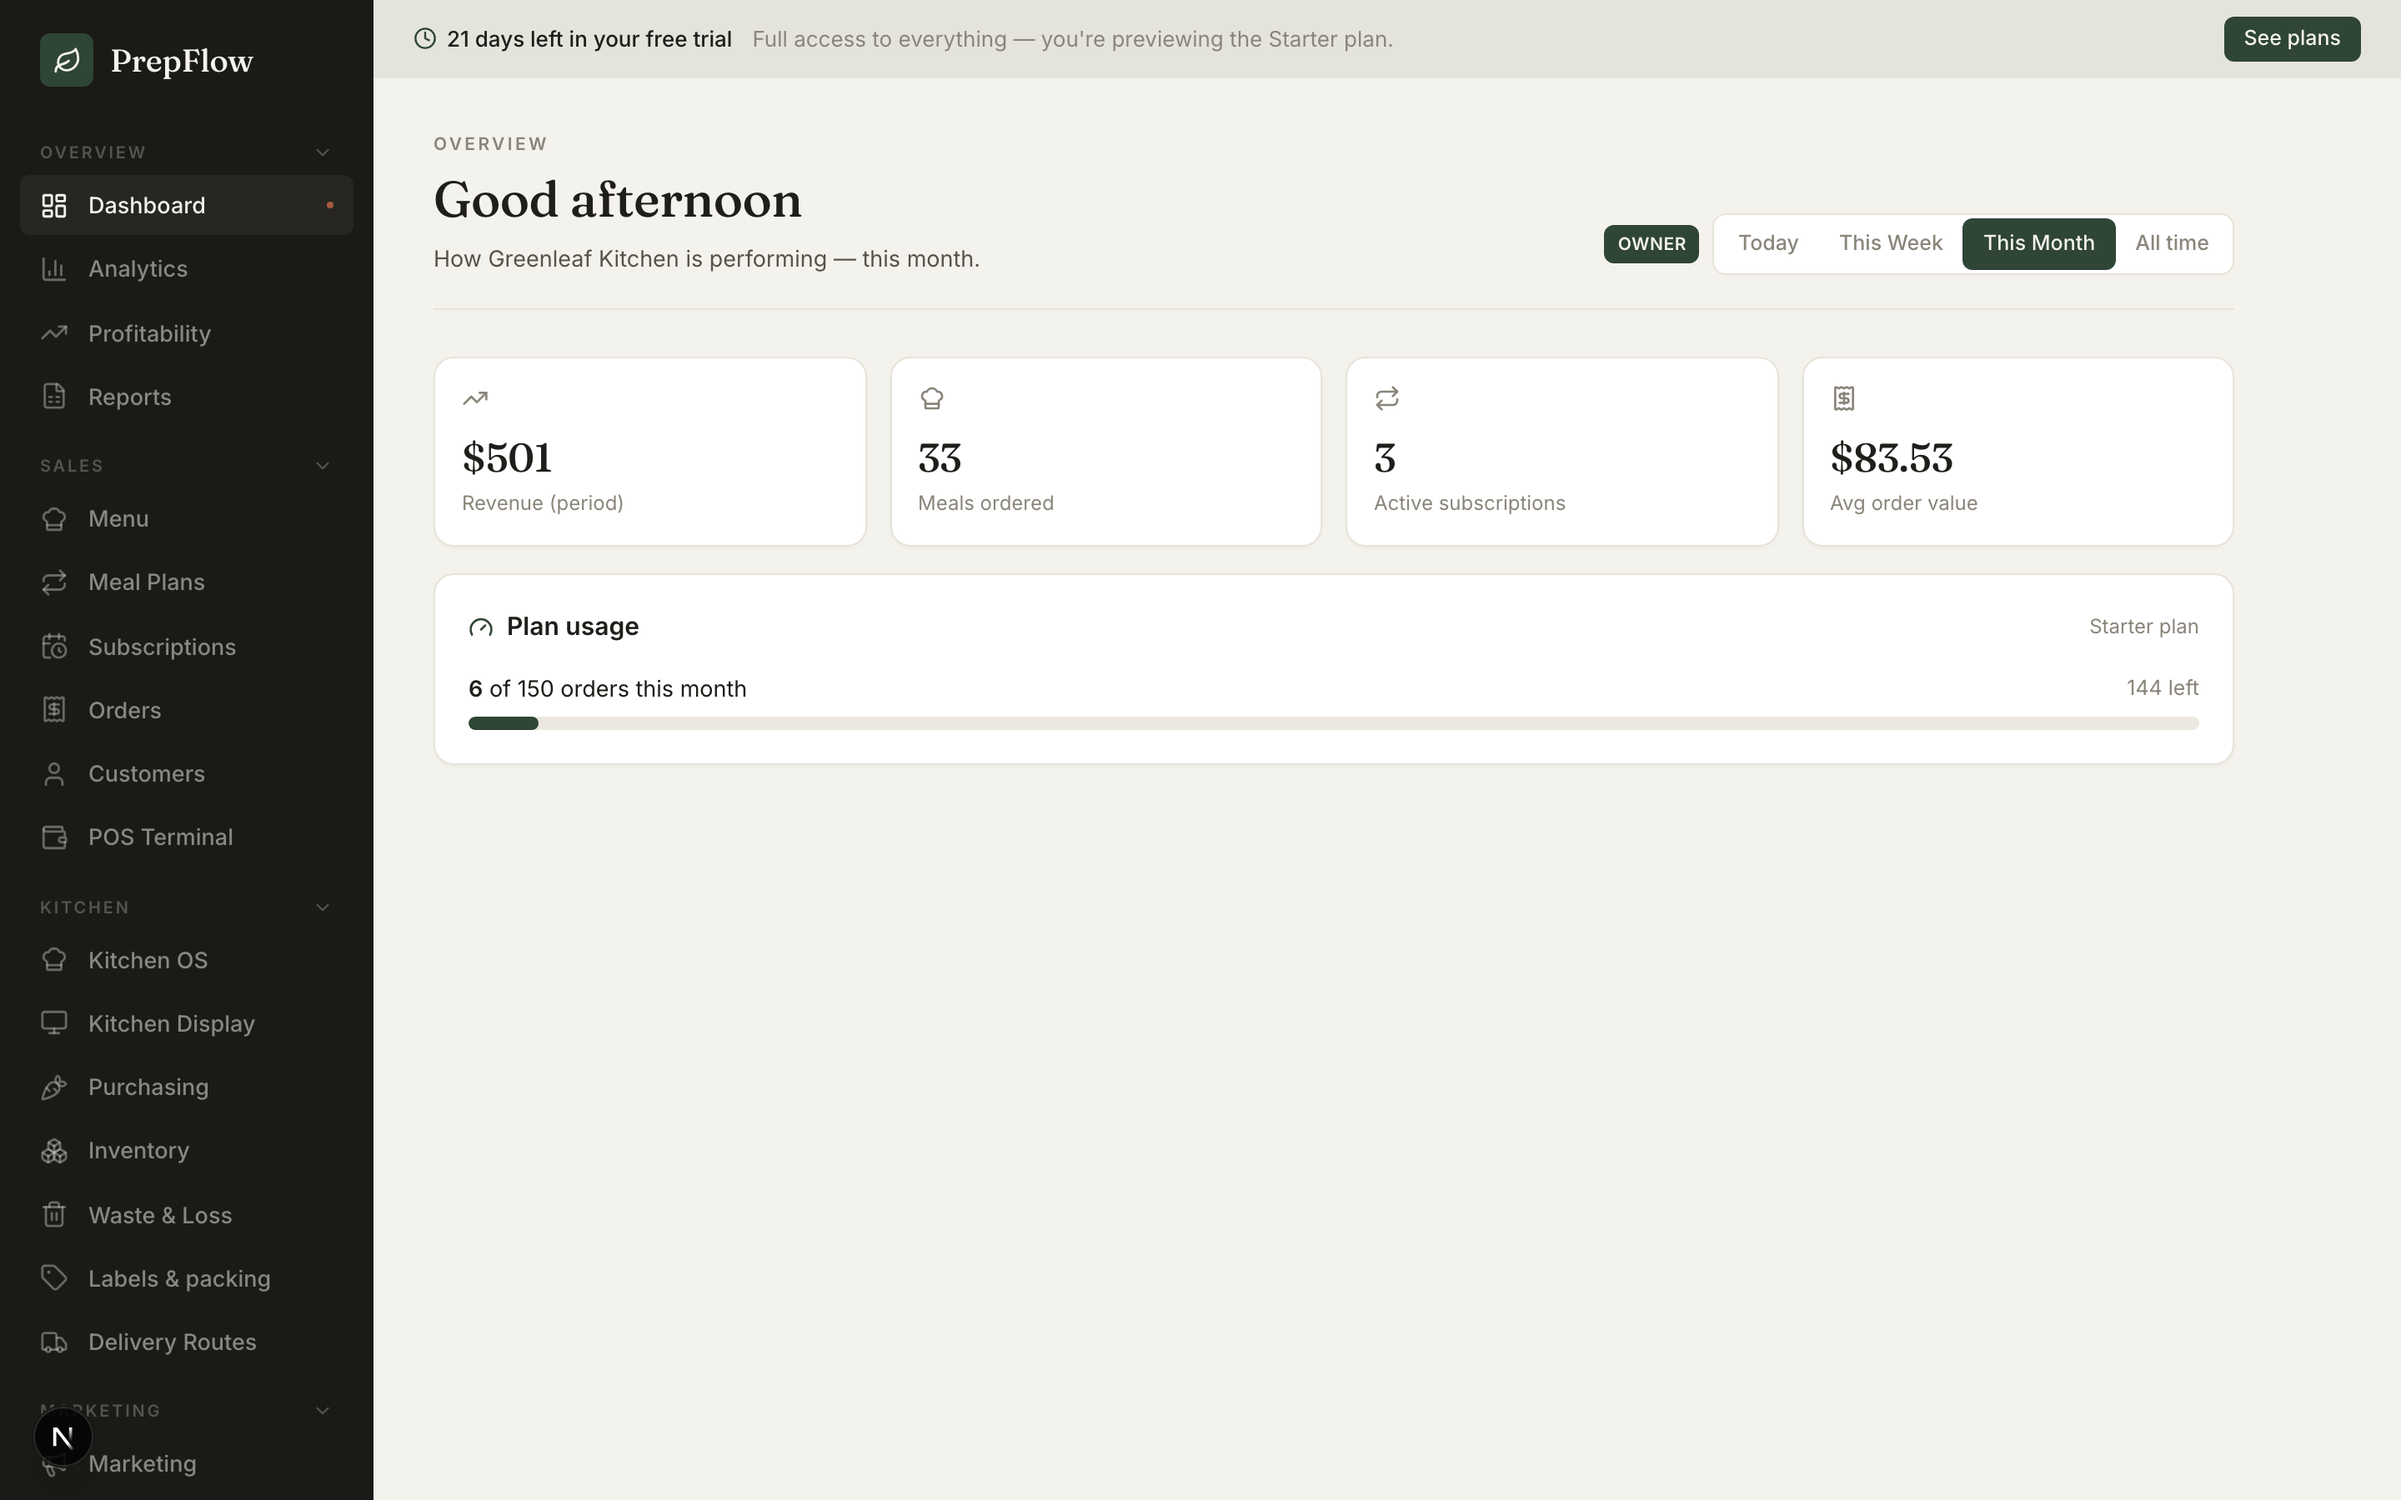
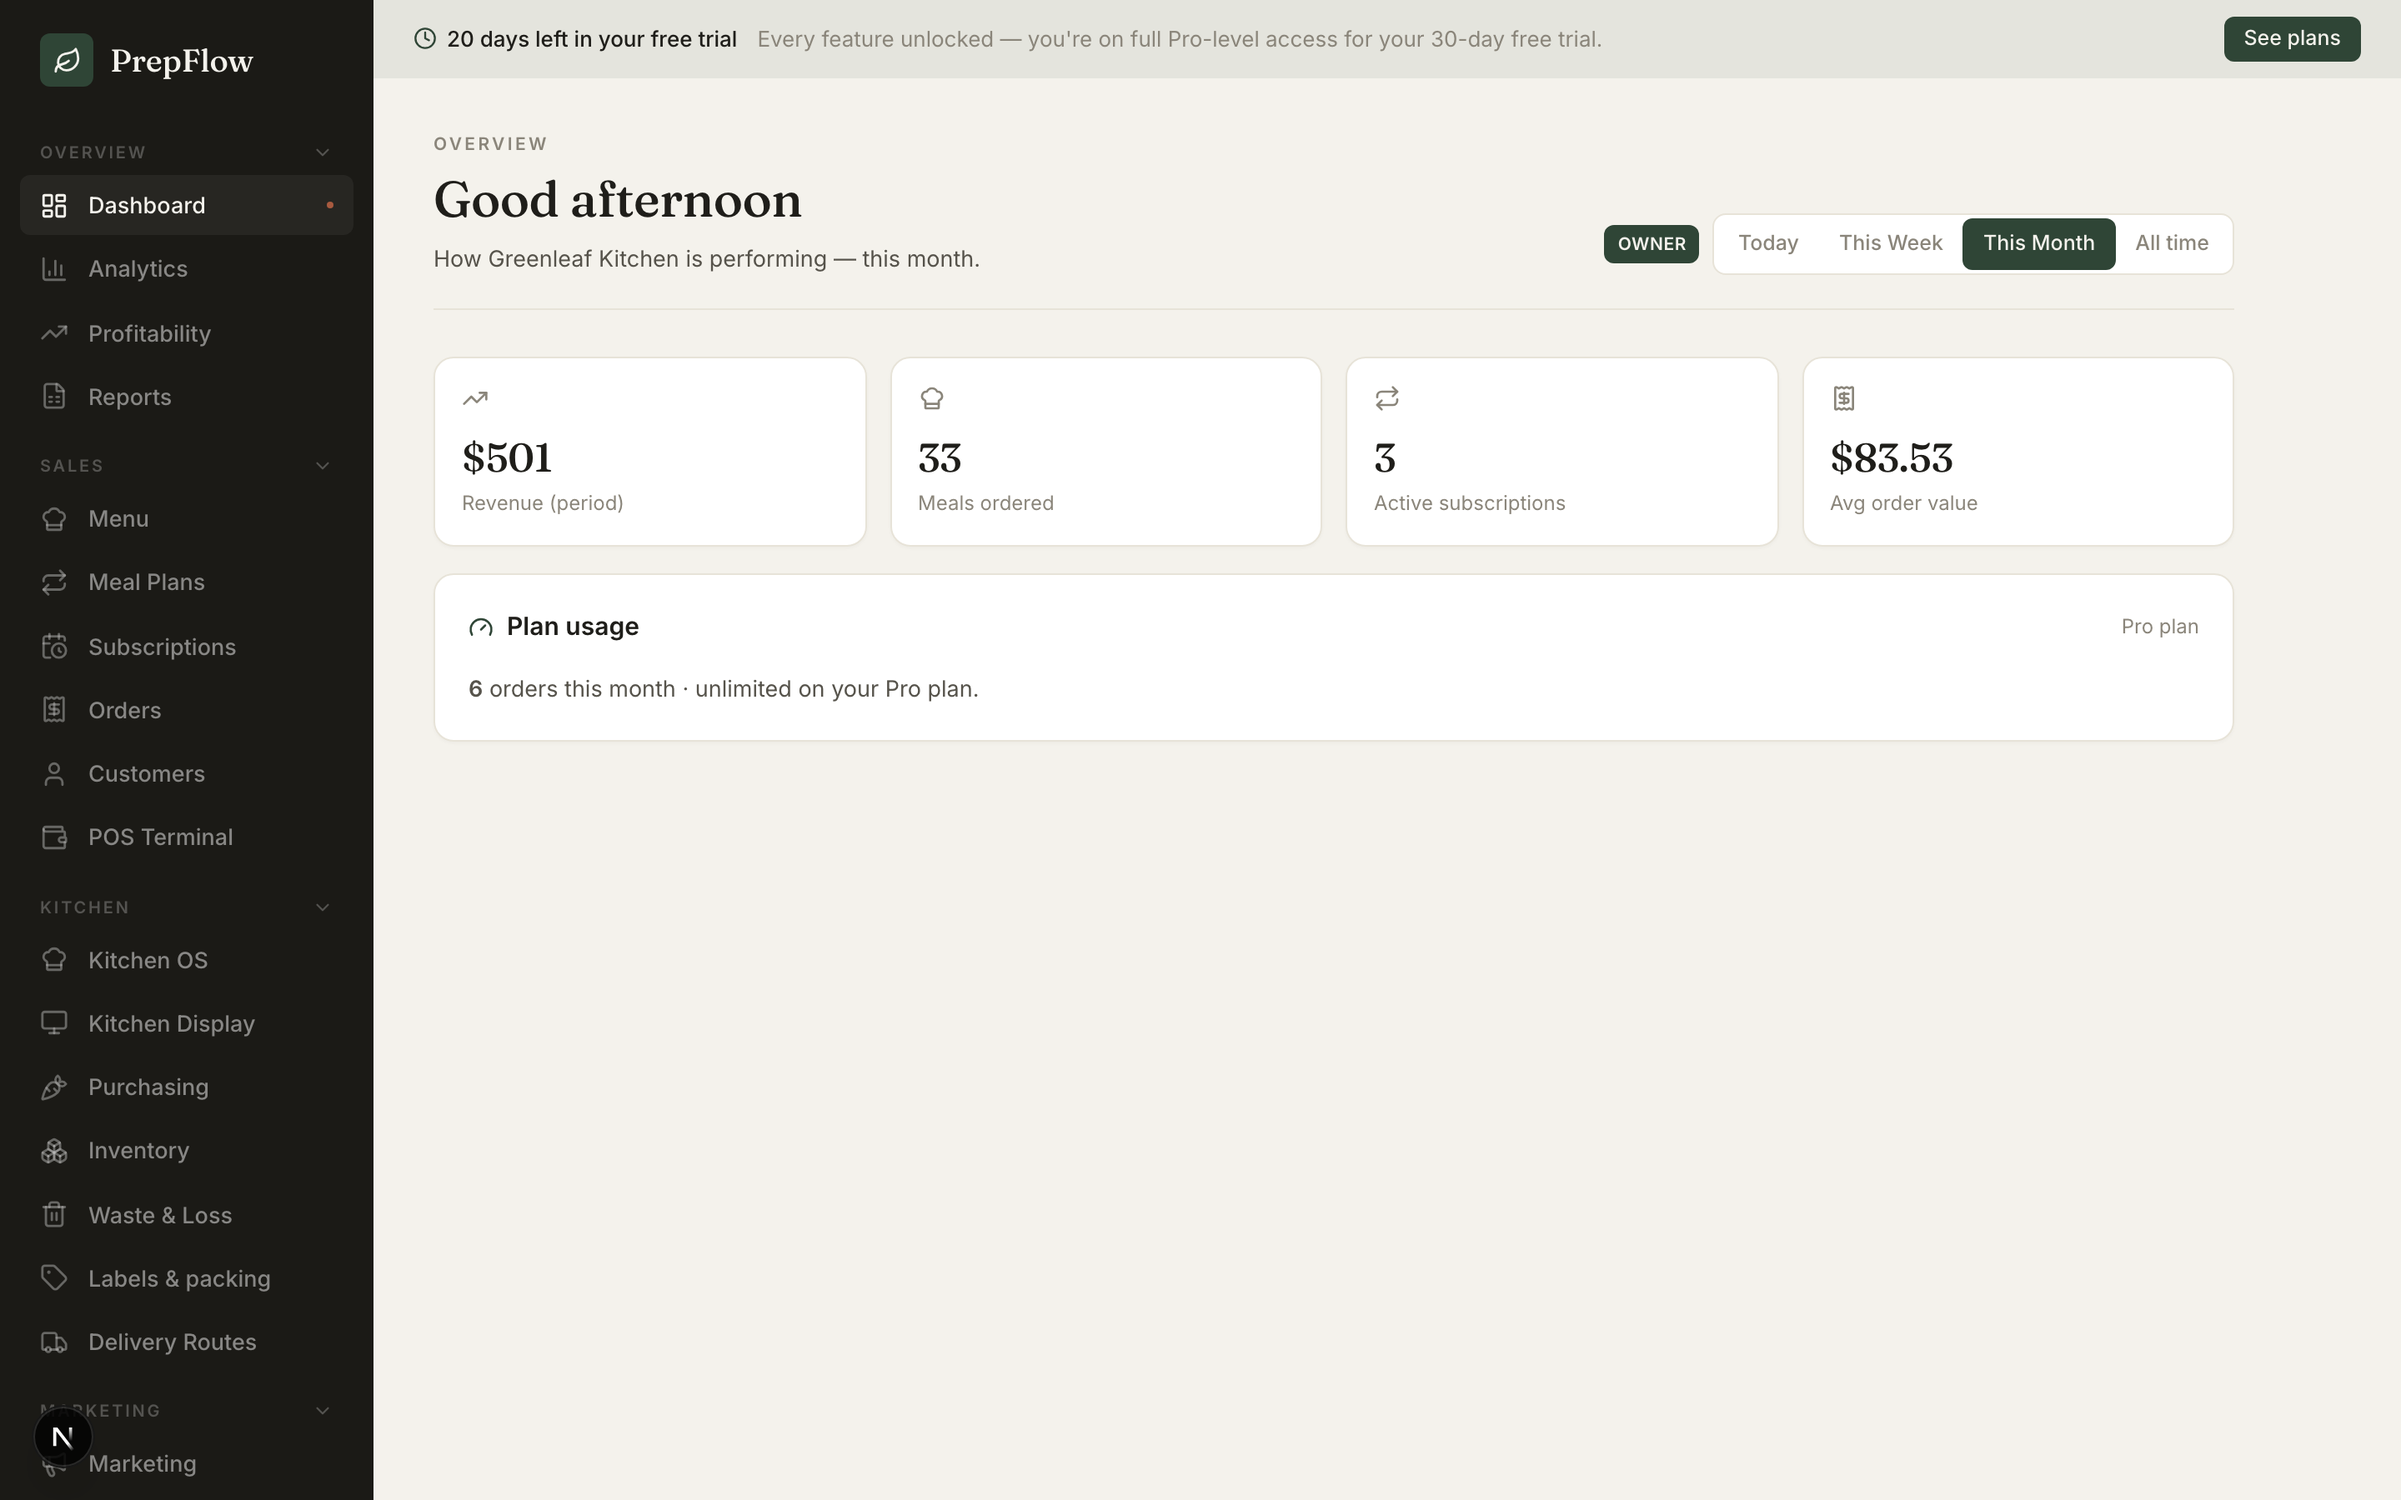
feat(trial): free trial grants full Pro-level access for 30 days
effectiveTier() returns "pro" while a kitchen's trial is active, so trial
kitchens get unlimited orders and all features regardless of the plan they
picked — reverting to their real tier when the trial ends. Wired into the order
usage/limit call sites (dashboard, POS, storefront) and the trial banner copy
("Every feature unlocked — full Pro-level access"). Platform fee still follows
the kitchen's actual tier.

Also (demo playbook review): the walkthrough now shows a "Skip ahead and explore
the app" link right under Back/Next so the live demo is reachable from any step,
and the overview demo screenshot is refreshed to the new trial copy.

Changed region(s): [[0.1875, 0.4356, 0.9375, 0.4978], [0.4375, 0.0, 0.6562, 0.0311], [0.1875, 0.0, 0.4062, 0.0311]]

diff --git a/src/app/dashboard/layout.tsx b/src/app/dashboard/layout.tsx
@@ -3,7 +3,7 @@ import { Eye, AlertTriangle, ArrowUpCircle, Clock, Sparkles } from "lucide-react
 import { requireBusiness } from "@/lib/auth";
 import { exitDemo } from "../demo/[rep]/enter/actions";
 import { orderLimitStatus } from "@/lib/usage";
-import { TIERS, type TierKey } from "@/lib/tiers";
+import { TIERS, effectiveTier, type TierKey } from "@/lib/tiers";
 import { trialStatus } from "@/lib/trial";
 import { kitchenAccess, KITCHEN_BILLING_ENABLED, type BillingStatus } from "@/lib/kitchen-billing";
 import { Lock } from "lucide-react";
@@ -27,7 +27,7 @@ export default async function DashboardLayout({
   // One query for the whole shell: order usage (also powers the sidebar footer
   // and cap banner). The old cosmetic "N menu items · N orders" counts were two
   // extra DB round-trips on every dashboard page — dropped.
-  const usage = await orderLimitStatus({ id: business.id, tier: business.tier as TierKey });
+  const usage = await orderLimitStatus({ id: business.id, tier: effectiveTier({ tier: business.tier as TierKey, trialEndsAt: business.trialEndsAt }) });
   const showCap = role === "owner" && (usage.atLimit || usage.nearLimit) && !isDemo;
   const planLabel = TIERS[usage.tier].name;
   // Free-trial countdown (owner-only, informational — no lockout until billing).
@@ -155,7 +155,7 @@ export default async function DashboardLayout({
             <span style={{ color: "var(--muted)" }}>
               {trial.nudge
                 ? `Pick your plan before it ends to keep ${business.name} running without a break.`
-                : `Full access to everything — you're previewing the ${planLabel} plan.`}
+                : `Every feature unlocked — you're on full Pro-level access for your 30-day free trial.`}
             </span>
             <Link
               href="/dashboard/billing"

diff --git a/src/app/dashboard/page.tsx b/src/app/dashboard/page.tsx
@@ -5,7 +5,7 @@ import { db } from "@/lib/db";
 import { Page, Head, Kpi, Card, CardTitle } from "@/components/ui";
 import { formatCents, formatCents0 } from "@/lib/money";
 import { orderLimitStatus } from "@/lib/usage";
-import { TIERS, type TierKey } from "@/lib/tiers";
+import { TIERS, effectiveTier, type TierKey } from "@/lib/tiers";
 import { RangeFilter } from "@/components/range-filter";
 import { Greeting } from "@/components/greeting";
 import { toRangeKey, rangeWhere, rangeLabel } from "@/lib/date-range";
@@ -52,7 +52,7 @@ export default async function DashboardPage({
   if (isOwner) {
     // Revenue KPIs exclude canceled/refunded orders — those were never earned.
     const where = { businessId: business.id, ...rangeWhere(range), ...revenueStatusWhere };
-    const usage = await orderLimitStatus({ id: business.id, tier: business.tier as TierKey });
+    const usage = await orderLimitStatus({ id: business.id, tier: effectiveTier({ tier: business.tier as TierKey, trialEndsAt: business.trialEndsAt }) });
     const [orders, subCount, agg] = await Promise.all([
       db.order.count({ where }),
       db.subscription.count({ where: { businessId: business.id, status: "active" } }),

diff --git a/src/app/store/actions.ts b/src/app/store/actions.ts
@@ -6,7 +6,7 @@ import { db } from "@/lib/db";
 import { stripe, STRIPE_ENABLED } from "@/lib/stripe";
 import { getStorefrontBusiness } from "@/lib/storefront";
 import { orderLimitStatus } from "@/lib/usage";
-import type { TierKey } from "@/lib/tiers";
+import { effectiveTier, type TierKey } from "@/lib/tiers";
 import { sendOrderConfirmation, sendOwnerNewOrder } from "@/lib/email";
 import { computeOrder, type AppliedCoupon } from "@/lib/pricing";
 import {
@@ -129,7 +129,7 @@ export async function placeOrder(input: PlaceOrderInputT): Promise<PlaceOrderRes
 
   // Plan order-cap: a kitchen over its monthly allowance can't take new orders
   // until it upgrades. Customer-facing copy stays generic (not a billing pitch).
-  const usage = await orderLimitStatus({ id: business.id, tier: business.tier as TierKey });
+  const usage = await orderLimitStatus({ id: business.id, tier: effectiveTier({ tier: business.tier as TierKey, trialEndsAt: business.trialEndsAt }) });
   if (usage.atLimit) {
     return { ok: false, message: "This kitchen has paused new orders for now. Please check back soon." };
   }

diff --git a/src/lib/tiers.test.ts b/src/lib/tiers.test.ts
@@ -1,0 +1,22 @@
+import { describe, it, expect } from "vitest";
+import { effectiveTier } from "./tiers";
+
+describe("effectiveTier", () => {
+  const future = new Date(Date.now() + 5 * 86_400_000);
+  const past = new Date(Date.now() - 5 * 86_400_000);
+
+  it("grants Pro-level access during an active trial, whatever the real tier", () => {
+    expect(effectiveTier({ tier: "starter", trialEndsAt: future })).toBe("pro");
+    expect(effectiveTier({ tier: "growth", trialEndsAt: future })).toBe("pro");
+  });
+
+  it("falls back to the real tier once the trial has ended", () => {
+    expect(effectiveTier({ tier: "starter", trialEndsAt: past })).toBe("starter");
+    expect(effectiveTier({ tier: "growth", trialEndsAt: past })).toBe("growth");
+  });
+
+  it("uses the real tier when there is no trial", () => {
+    expect(effectiveTier({ tier: "starter", trialEndsAt: null })).toBe("starter");
+    expect(effectiveTier({ tier: "pro", trialEndsAt: null })).toBe("pro");
+  });
+});

diff --git a/src/lib/tiers.ts b/src/lib/tiers.ts
@@ -26,6 +26,19 @@ export function isTierKey(v: unknown): v is TierKey {
   return v === "starter" || v === "growth" || v === "pro";
 }
 
+/**
+ * The tier a kitchen effectively has RIGHT NOW. During the free trial every
+ * kitchen gets full Pro-level access (unlimited orders, all features) regardless
+ * of the plan they picked; once the trial ends they fall back to their real tier.
+ * Note: this governs features/limits, NOT the per-transaction platform fee, which
+ * always follows the kitchen's actual `tier`.
+ */
+export function effectiveTier(b: { tier: TierKey; trialEndsAt: Date | null }): TierKey {
+  // Local import avoided — trial math is tiny and dependency-free.
+  const active = b.trialEndsAt != null && b.trialEndsAt.getTime() > Date.now();
+  return active ? "pro" : b.tier;
+}
+
 // Human label for the fee, e.g. "1.5%".
 export function feePctLabel(key: TierKey): string {
   return `${TIERS[key].platformFeeBps / 100}%`;

diff --git a/src/app/dashboard/pos/actions.ts b/src/app/dashboard/pos/actions.ts
@@ -6,7 +6,7 @@ import { db } from "@/lib/db";
 import { requireBusiness } from "@/lib/auth";
 import { computeOrder } from "@/lib/pricing";
 import { orderLimitStatus } from "@/lib/usage";
-import type { TierKey } from "@/lib/tiers";
+import { effectiveTier, type TierKey } from "@/lib/tiers";
 
 const PosInput = z.object({
   items: z
@@ -30,7 +30,7 @@ export async function placePosOrder(input: z.infer<typeof PosInput>): Promise<Po
   if (!settings) return { ok: false, message: "Settings missing." };
 
   // Plan order-cap: block new sales once the monthly allowance is used up.
-  const usage = await orderLimitStatus({ id: business.id, tier: business.tier as TierKey });
+  const usage = await orderLimitStatus({ id: business.id, tier: effectiveTier({ tier: business.tier as TierKey, trialEndsAt: business.trialEndsAt }) });
   if (usage.atLimit) {
     return {
       ok: false,

diff --git a/src/app/demo/demo-tour.tsx b/src/app/demo/demo-tour.tsx
@@ -281,6 +281,17 @@ export function DemoTour({ rep, repName }: { rep: string | null; repName: string
                 </Link>
               )}
             </div>
+            {/* Jump-ahead link sits right under Back/Next so the hands-on demo is
+                always within reach, not only at the very end. */}
+            {!onFinal && (
+              <Link
+                href={enterHref}
+                className="inline-flex items-center gap-1 mt-3 text-[13px] font-medium"
+                style={{ color: "var(--pine)" }}
+              >
+                Skip ahead and explore the app yourself <ArrowRight size={14} />
+              </Link>
+            )}
           </div>
 
           {/* Screenshot */}
